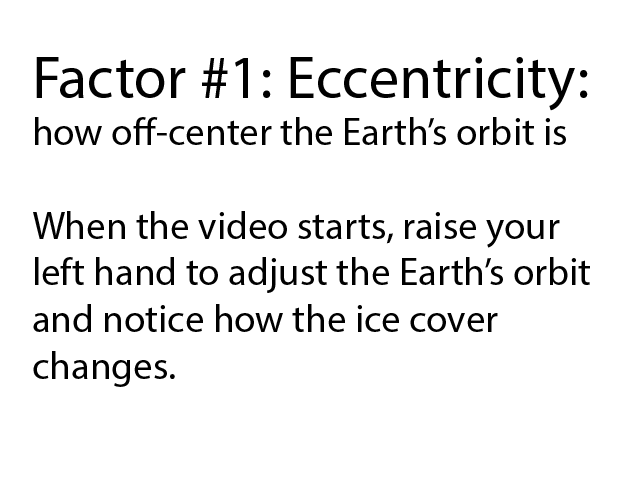
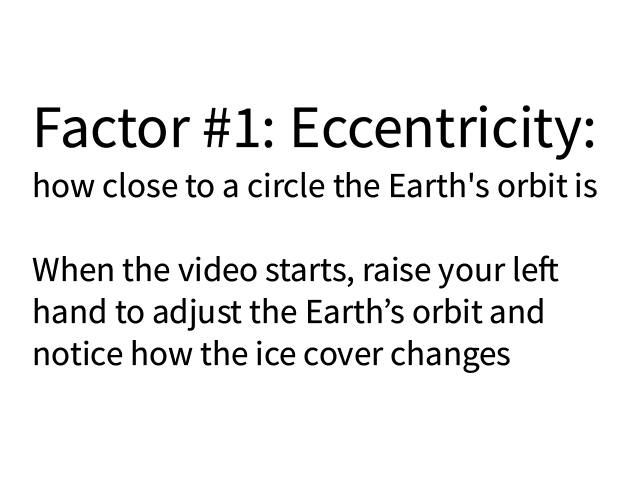
Correct fonts, add intro overlay

Changed region(s): [[0.0312, 0.0938, 0.9375, 0.8125]]

diff --git a/script.js b/script.js
@@ -51,6 +51,9 @@ pOverlay.src = "img/pOverlay.png";
 const oOverlay = new Image(640, 480);
 oOverlay.src = "img/oOverlay.png";
 
+const introOverlay = new Image(640, 480);
+introOverlay.src = "img/introOverlay.png";
+
 let globalObliquityAngle = 0
 const angleMax = .75
 
@@ -139,6 +142,12 @@ function runDetection() {
             // console.log("Predictions: ", predictions);
             model.renderPredictions(predictions, canvas, context, video);
 
+            // Intro page
+            if (cycleParam == null) {
+                context.drawImage(introOverlay, 0, 0, canvas.width, canvas.height);
+                detectBothHands(predictions);
+            }
+
             // Eccentricity
             if (cycleParam == CycleParams.e) {
                 callCycleFunction(shownEOverlay, eOverlay, startedETimer, renderEccentricity, predictions);
@@ -165,6 +174,15 @@ function runDetection() {
         // prompt user to start their video
         homeHelperText = document.getElementById('edText');
         homeHelperText.textContent = helperText.pause;
+    }
+}
+
+function detectBothHands(predictions) {
+    hands = findHands(predictions);
+    
+    if (hands.length >= 2) {
+        context.clearRect(0, 0, canvas.width, canvas.height);
+        changePage();
     }
 }
 
@@ -632,7 +650,7 @@ function calculateRadians(percent, min, max, flip=false) {
 }
 
 /**
- * Render 
+ * Render text to instruct user
  * 
  * @param {String} text 
  */
